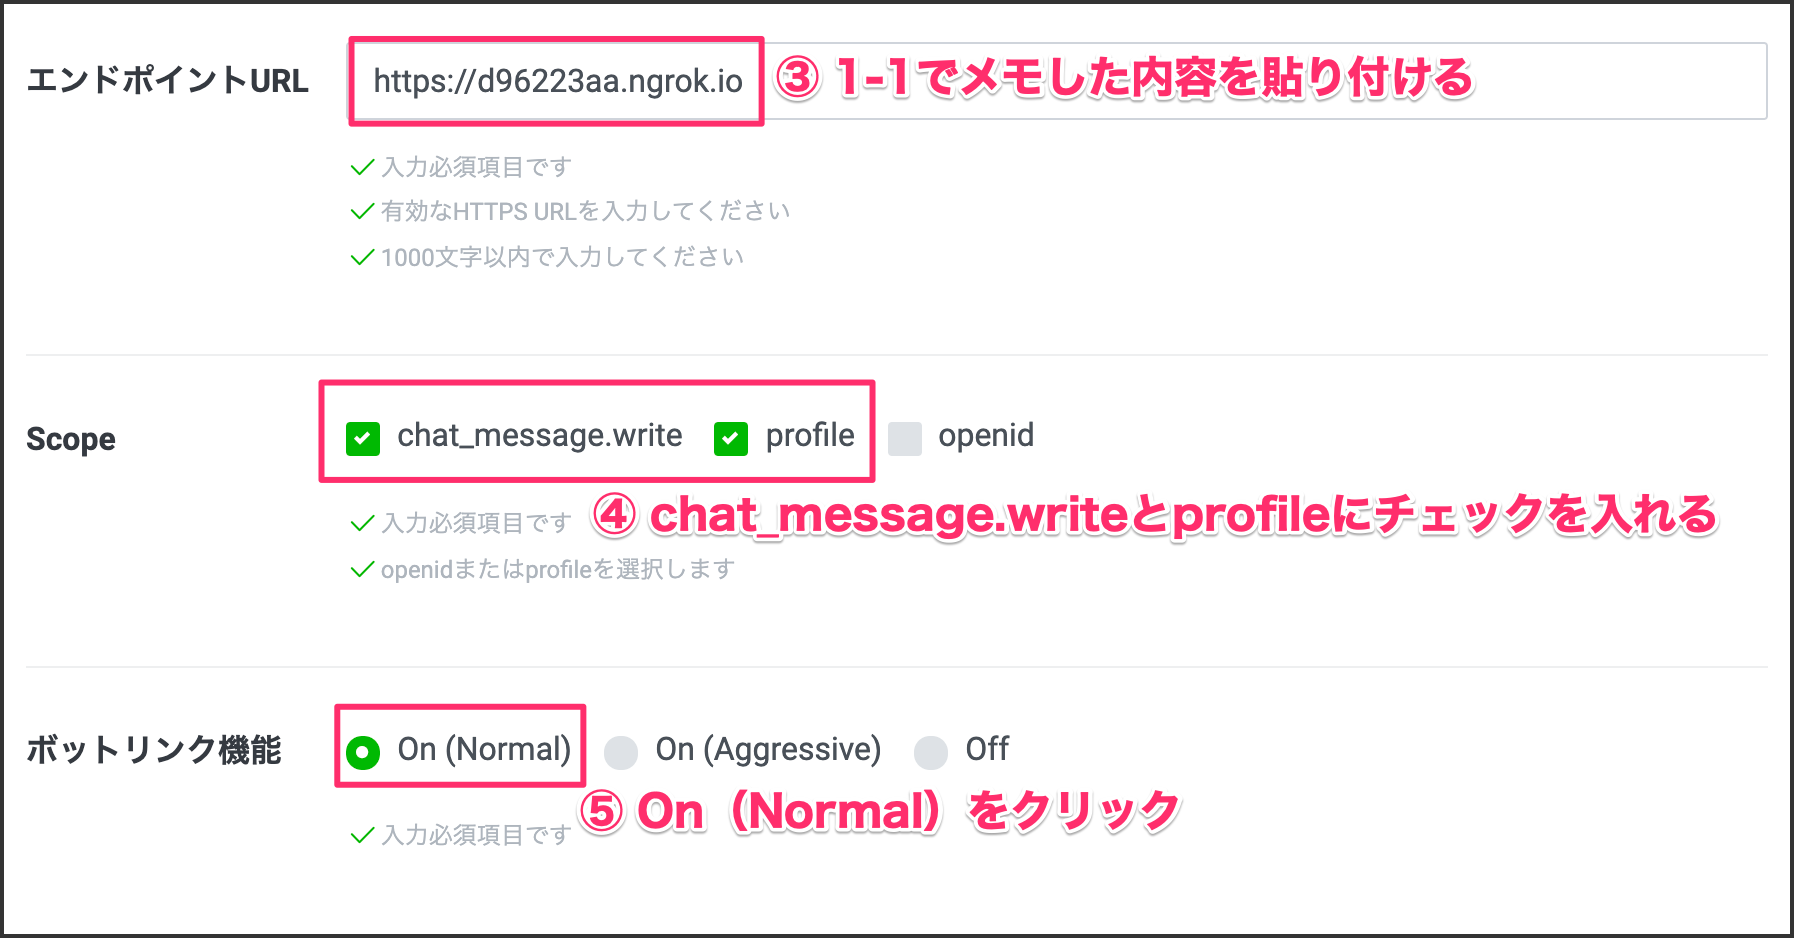
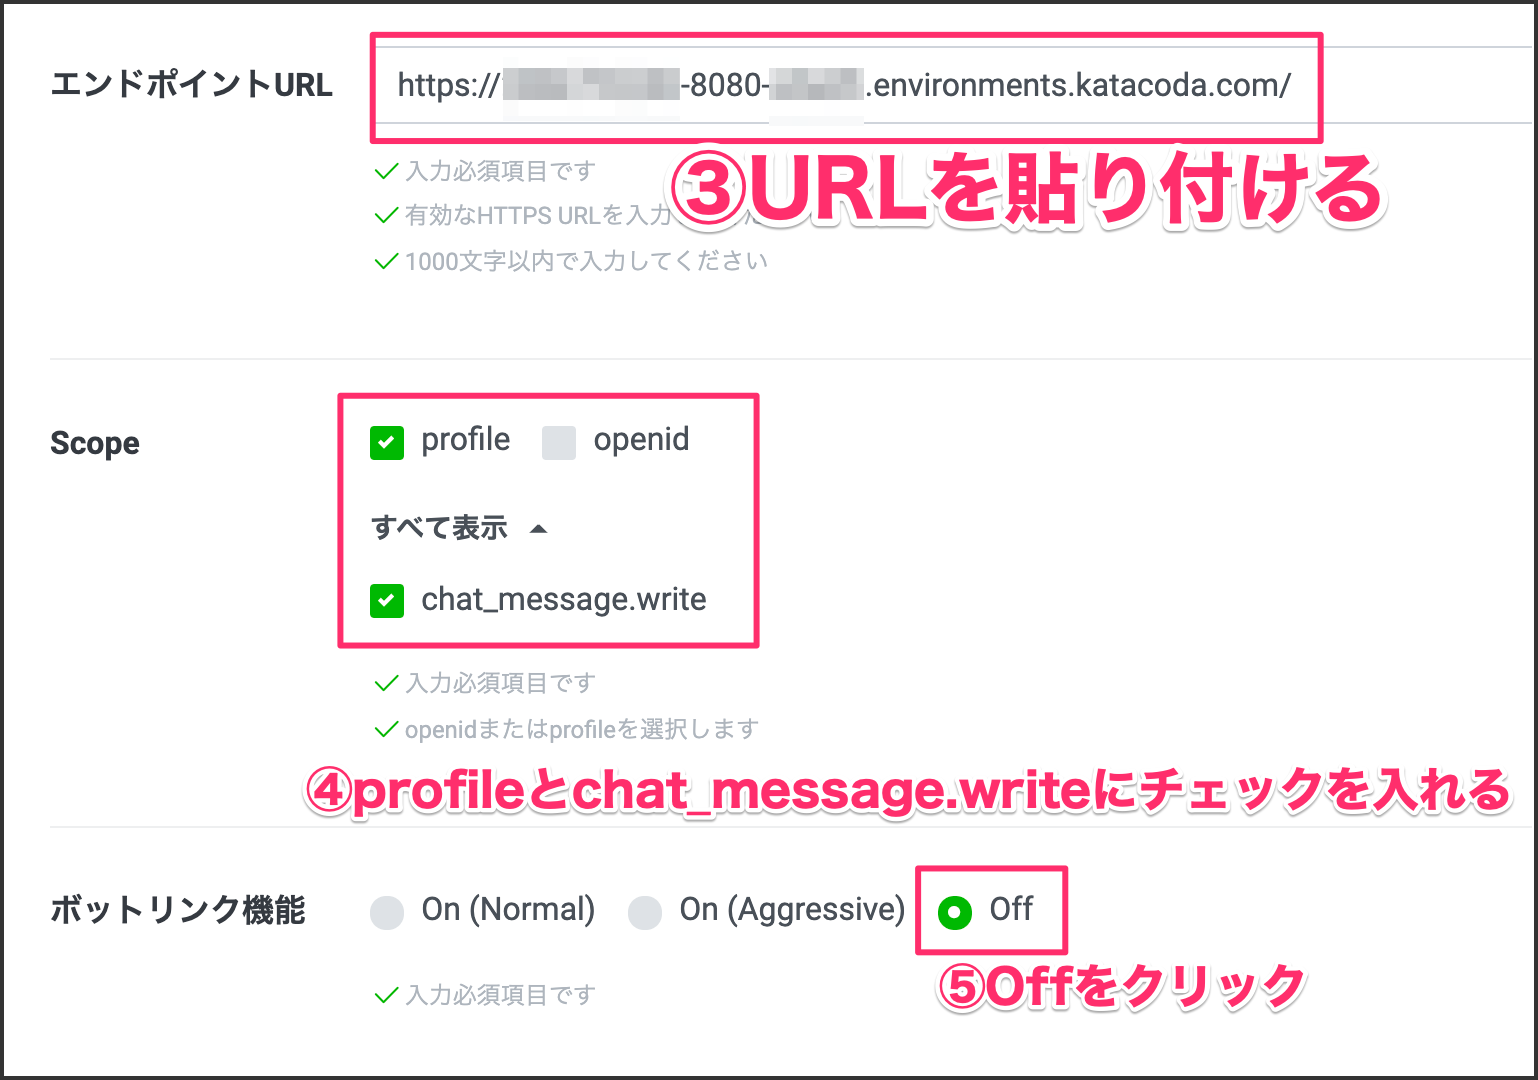
open処理テスト

diff --git a/liff-v2-handson-playground/step1.md b/liff-v2-handson-playground/step1.md
@@ -51,7 +51,7 @@ LINEログインをクリックします。
 |:--|:--|
 |③エンドポイントURL|`https://[[HOST_SUBDOMAIN]]-8080-[[KATACODA_HOST]].environments.katacoda.com/`{{copy}} <br>こちらのURLを貼り付ける|
 |④Scope| `chat_message.write` と `profile` にチェックを入れる|
-|⑤ボットリンク機能| `On (Normal) ` を選択|
+|⑤ボットリンク機能| `Off` を選択|
 
 ![s209](https://raw.githubusercontent.com/gaomar/katacoda-scenarios/master/liff-v2-handson-playground/images/s209.png)
 

diff --git a/liff-v2-handson-playground/step2.md b/liff-v2-handson-playground/step2.md
@@ -2,6 +2,8 @@
 exampleフォルダにある `.env` ファイルをクリックして開きます。
 先程step1でメモしたLIFFのIDを反映します。
 
+`~/example/.env`{{open}}
+
 ![s300](https://raw.githubusercontent.com/gaomar/katacoda-scenarios/master/liff-v2-handson-playground/images/s300.png)
 
 ### 2-2. プログラム実行
